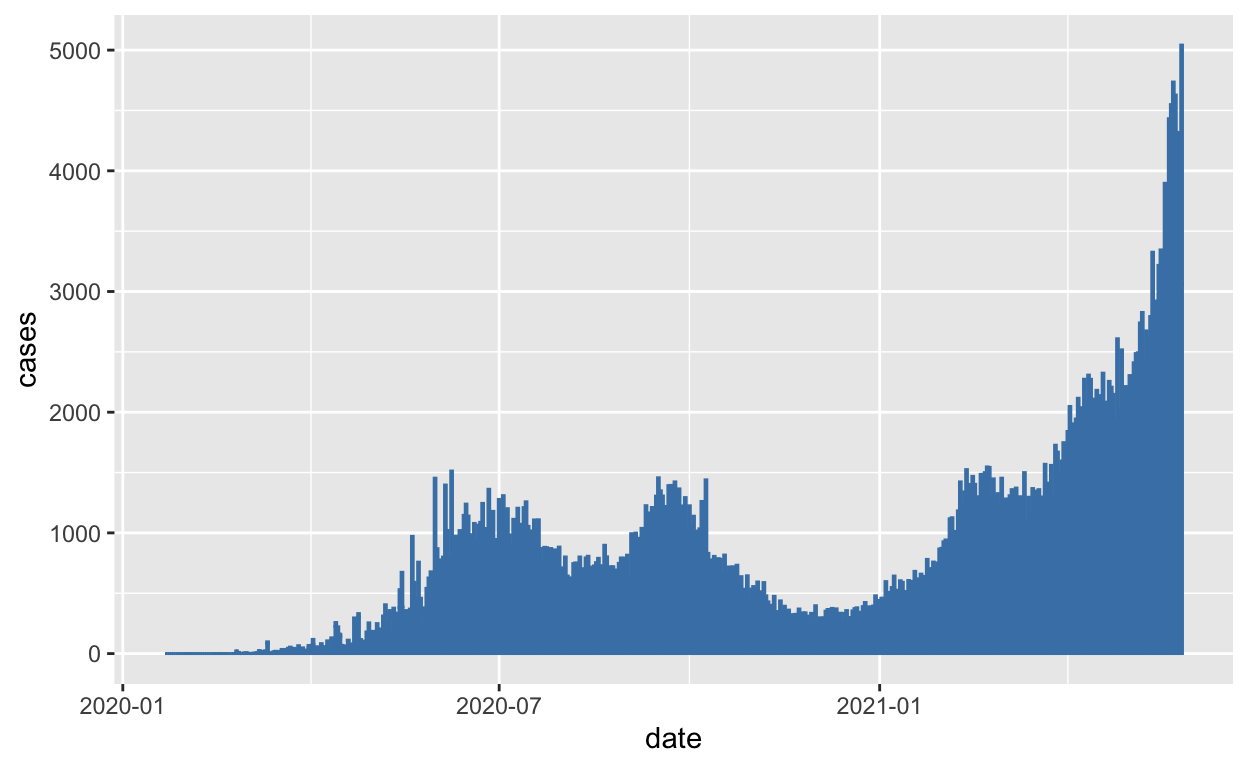
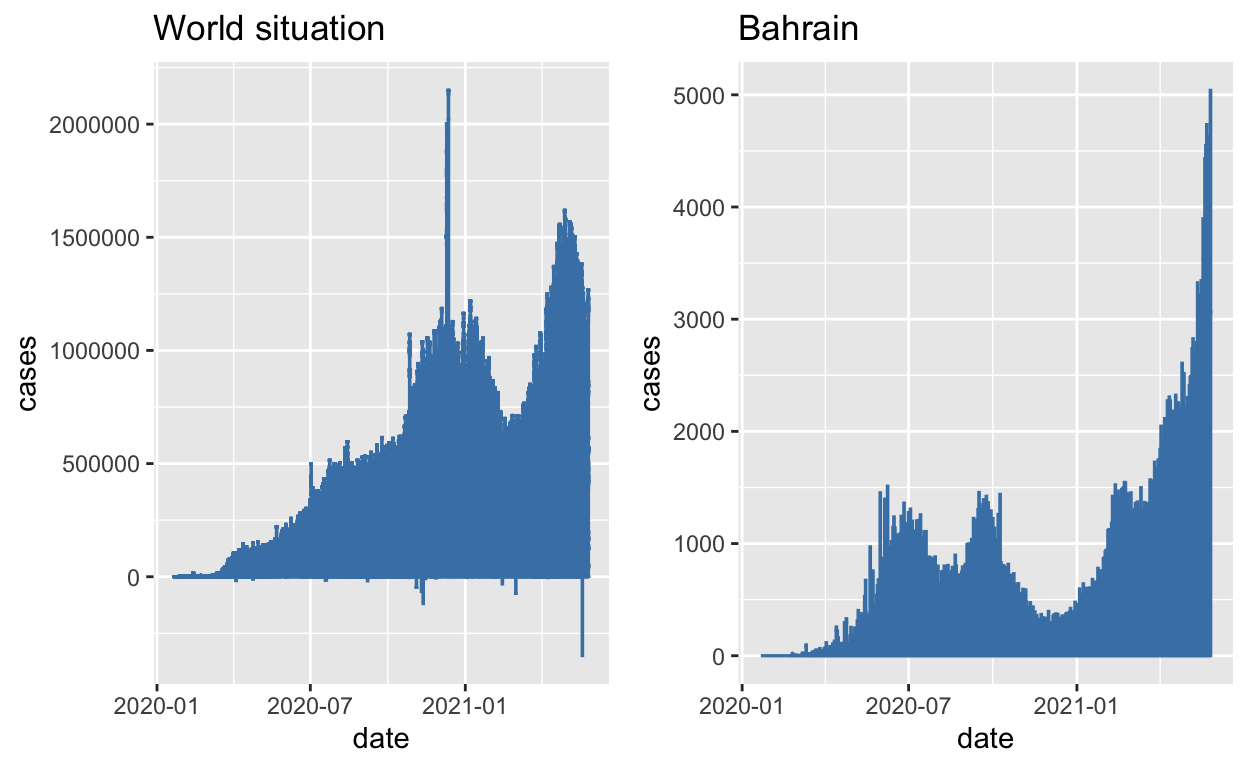
editing blog 1

diff --git a/myblog/_posts/2021-08-30-blog-1/blog-1.html b/myblog/_posts/2021-08-30-blog-1/blog-1.html
@@ -116,7 +116,7 @@ code span.wa { color: #5e5e5e; font-style: italic; } /* Warning */
   <!--/radix_placeholder_rmarkdown_metadata-->
   
   <script type="text/json" id="radix-resource-manifest">
-  {"type":"character","attributes":{},"value":["blog-1_files/anchor-4.2.2/anchor.min.js","blog-1_files/bowser-1.9.3/bowser.min.js","blog-1_files/distill-2.2.21/template.v2.js","blog-1_files/figure-html5/covid_situation_in_Bahrain-1.png","blog-1_files/header-attrs-2.9/header-attrs.js","blog-1_files/jquery-1.11.3/jquery.min.js","blog-1_files/popper-2.6.0/popper.min.js","blog-1_files/tippy-6.2.7/tippy-bundle.umd.min.js","blog-1_files/tippy-6.2.7/tippy-light-border.css","blog-1_files/tippy-6.2.7/tippy.css","blog-1_files/tippy-6.2.7/tippy.umd.min.js","blog-1_files/webcomponents-2.0.0/webcomponents.js"]}
+  {"type":"character","attributes":{},"value":["blog-1_files/anchor-4.2.2/anchor.min.js","blog-1_files/bowser-1.9.3/bowser.min.js","blog-1_files/distill-2.2.21/template.v2.js","blog-1_files/figure-html5/covid_situation_in_Bahrain-1.png","blog-1_files/figure-html5/whole_world_situation-1.png","blog-1_files/header-attrs-2.9/header-attrs.js","blog-1_files/jquery-1.11.3/jquery.min.js","blog-1_files/popper-2.6.0/popper.min.js","blog-1_files/tippy-6.2.7/tippy-bundle.umd.min.js","blog-1_files/tippy-6.2.7/tippy-light-border.css","blog-1_files/tippy-6.2.7/tippy.css","blog-1_files/tippy-6.2.7/tippy.umd.min.js","blog-1_files/webcomponents-2.0.0/webcomponents.js"]}
   </script>
   <!--radix_placeholder_navigation_in_header-->
   <!--/radix_placeholder_navigation_in_header-->

diff --git a/myblog/docs/posts/2021-08-30-blog-1/index.html b/myblog/docs/posts/2021-08-30-blog-1/index.html
@@ -117,7 +117,7 @@ code span.wa { color: #5e5e5e; font-style: italic; } /* Warning */
 <!--/radix_placeholder_rmarkdown_metadata-->
   
   <script type="text/json" id="radix-resource-manifest">
-  {"type":"character","attributes":{},"value":["blog-1_files/anchor-4.2.2/anchor.min.js","blog-1_files/bowser-1.9.3/bowser.min.js","blog-1_files/distill-2.2.21/template.v2.js","blog-1_files/figure-html5/covid_situation_in_Bahrain-1.png","blog-1_files/header-attrs-2.9/header-attrs.js","blog-1_files/jquery-1.11.3/jquery.min.js","blog-1_files/popper-2.6.0/popper.min.js","blog-1_files/tippy-6.2.7/tippy-bundle.umd.min.js","blog-1_files/tippy-6.2.7/tippy-light-border.css","blog-1_files/tippy-6.2.7/tippy.css","blog-1_files/tippy-6.2.7/tippy.umd.min.js","blog-1_files/webcomponents-2.0.0/webcomponents.js"]}
+  {"type":"character","attributes":{},"value":["blog-1_files/anchor-4.2.2/anchor.min.js","blog-1_files/bowser-1.9.3/bowser.min.js","blog-1_files/distill-2.2.21/template.v2.js","blog-1_files/figure-html5/covid_situation_in_Bahrain-1.png","blog-1_files/figure-html5/whole_world_situation-1.png","blog-1_files/header-attrs-2.9/header-attrs.js","blog-1_files/jquery-1.11.3/jquery.min.js","blog-1_files/popper-2.6.0/popper.min.js","blog-1_files/tippy-6.2.7/tippy-bundle.umd.min.js","blog-1_files/tippy-6.2.7/tippy-light-border.css","blog-1_files/tippy-6.2.7/tippy.css","blog-1_files/tippy-6.2.7/tippy.umd.min.js","blog-1_files/webcomponents-2.0.0/webcomponents.js"]}
   </script>
   <!--radix_placeholder_navigation_in_header-->
 <meta name="distill:offset" content="../.."/>
